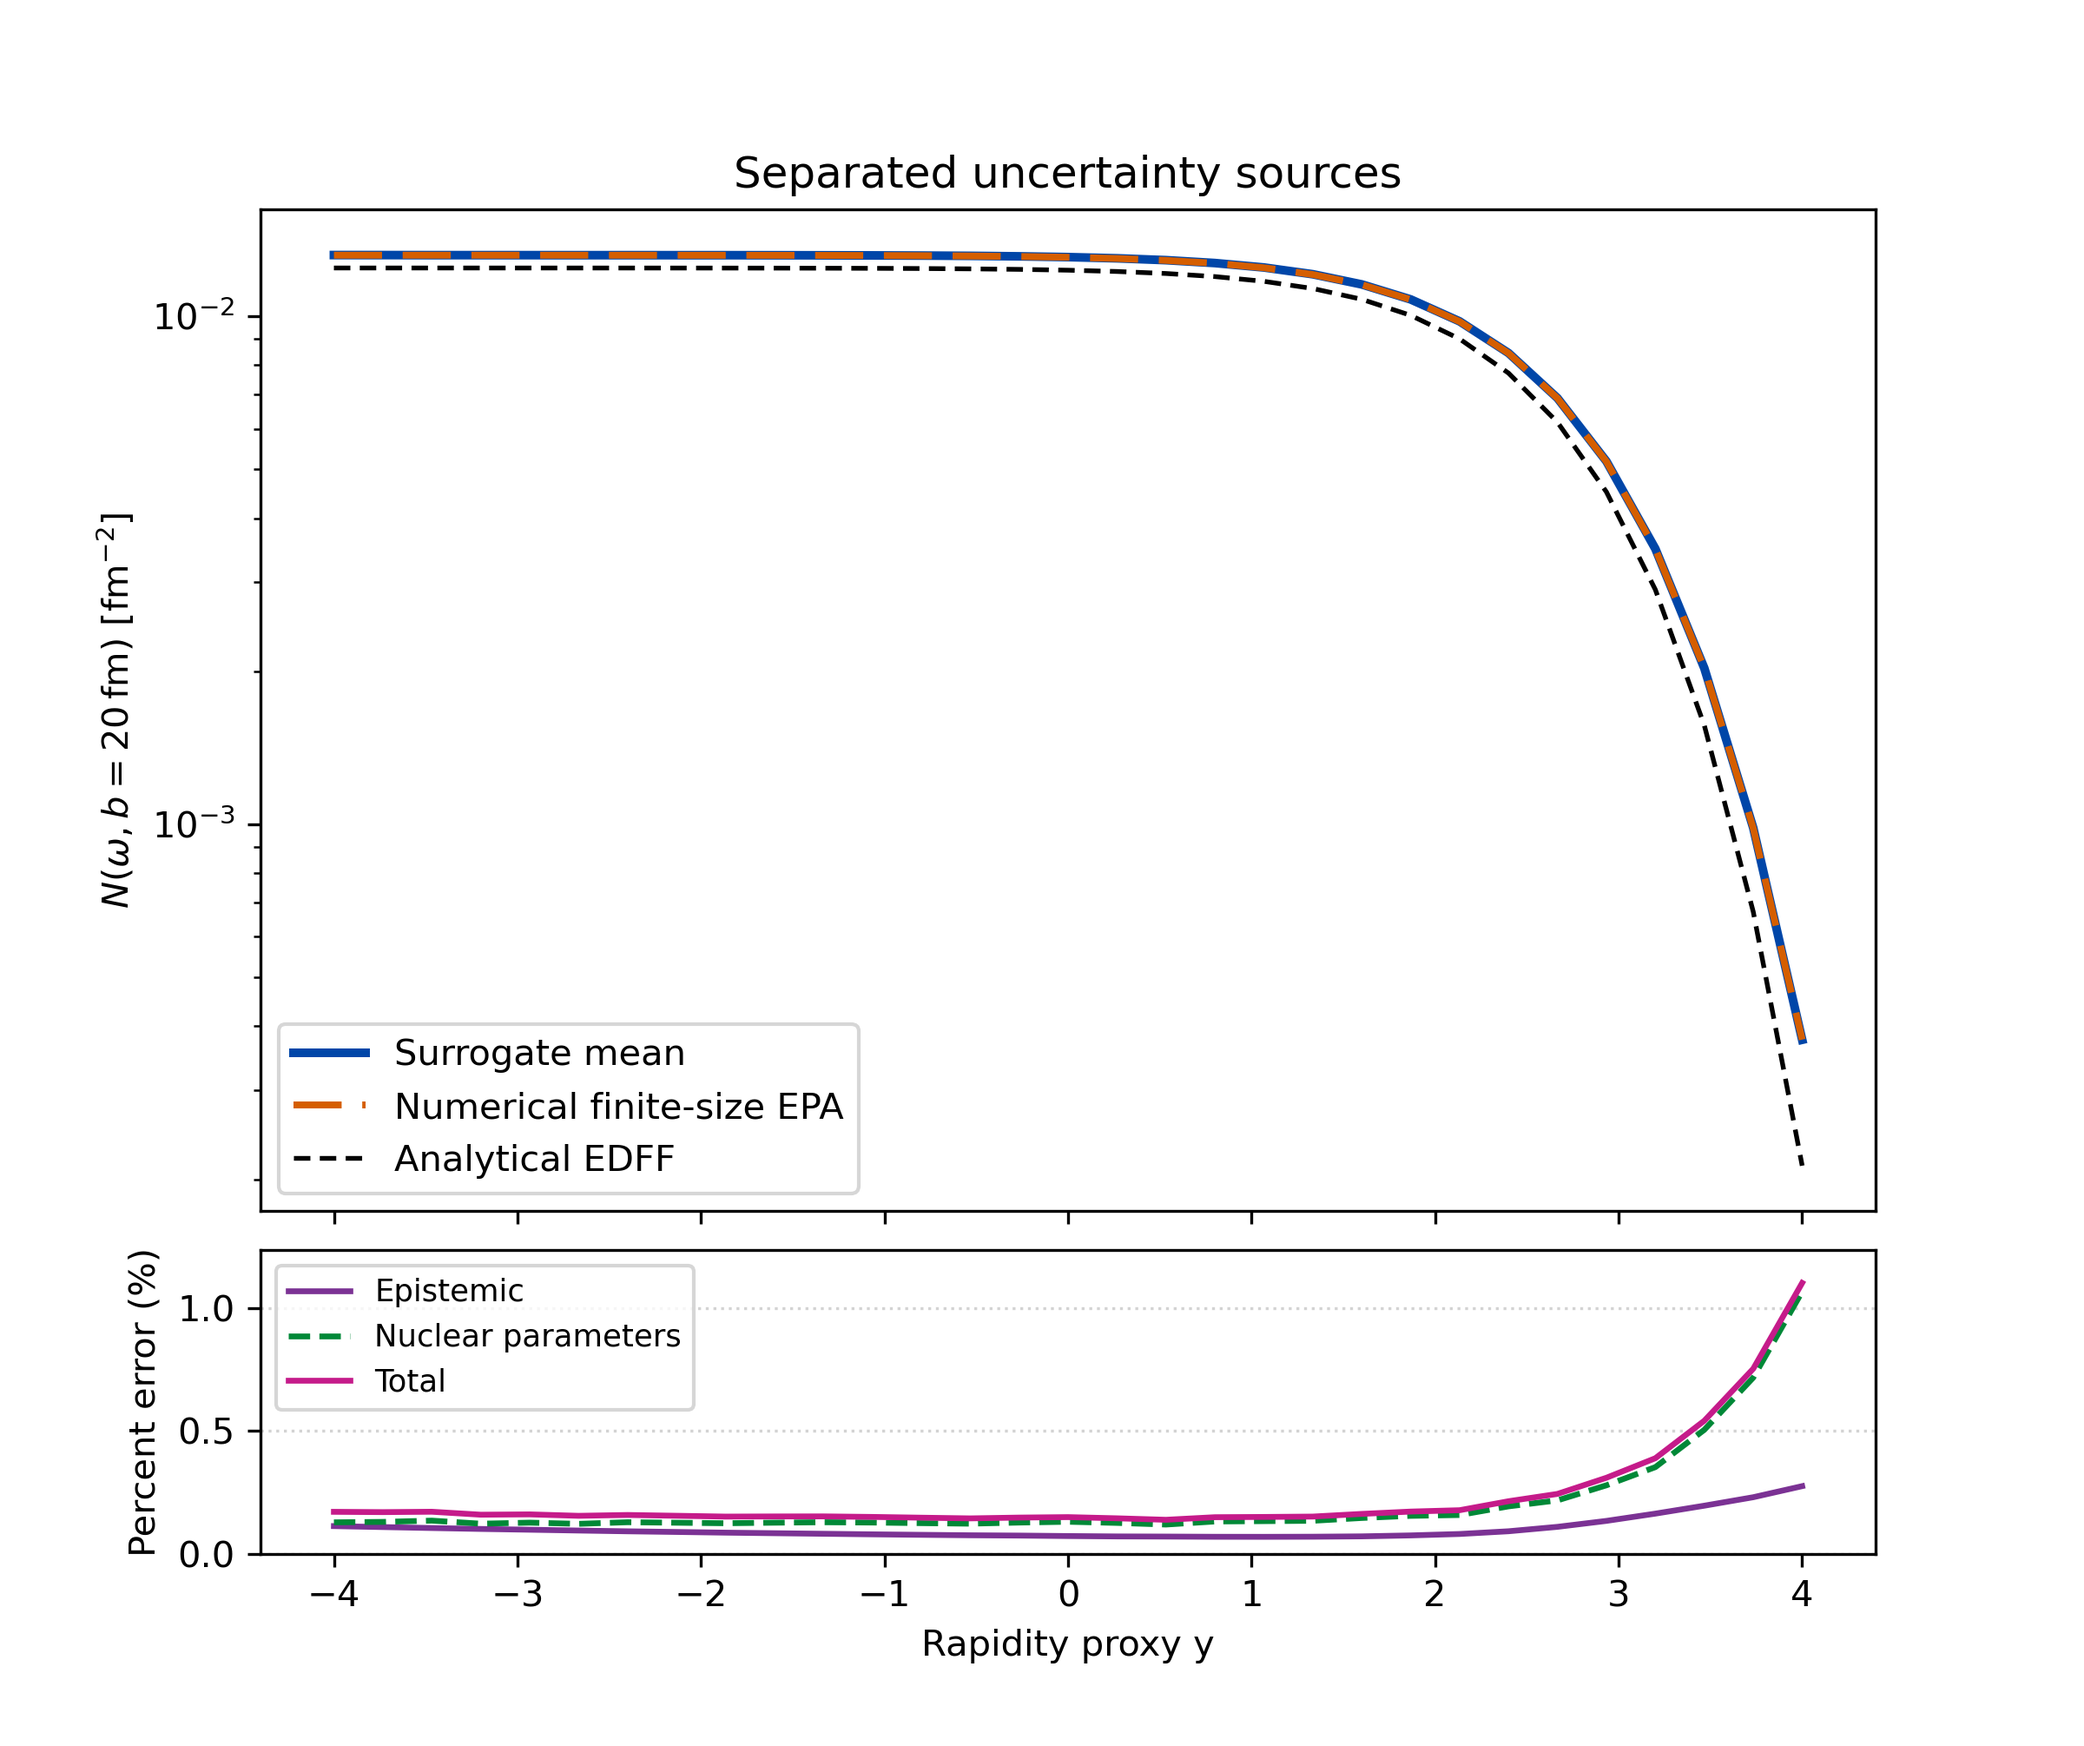
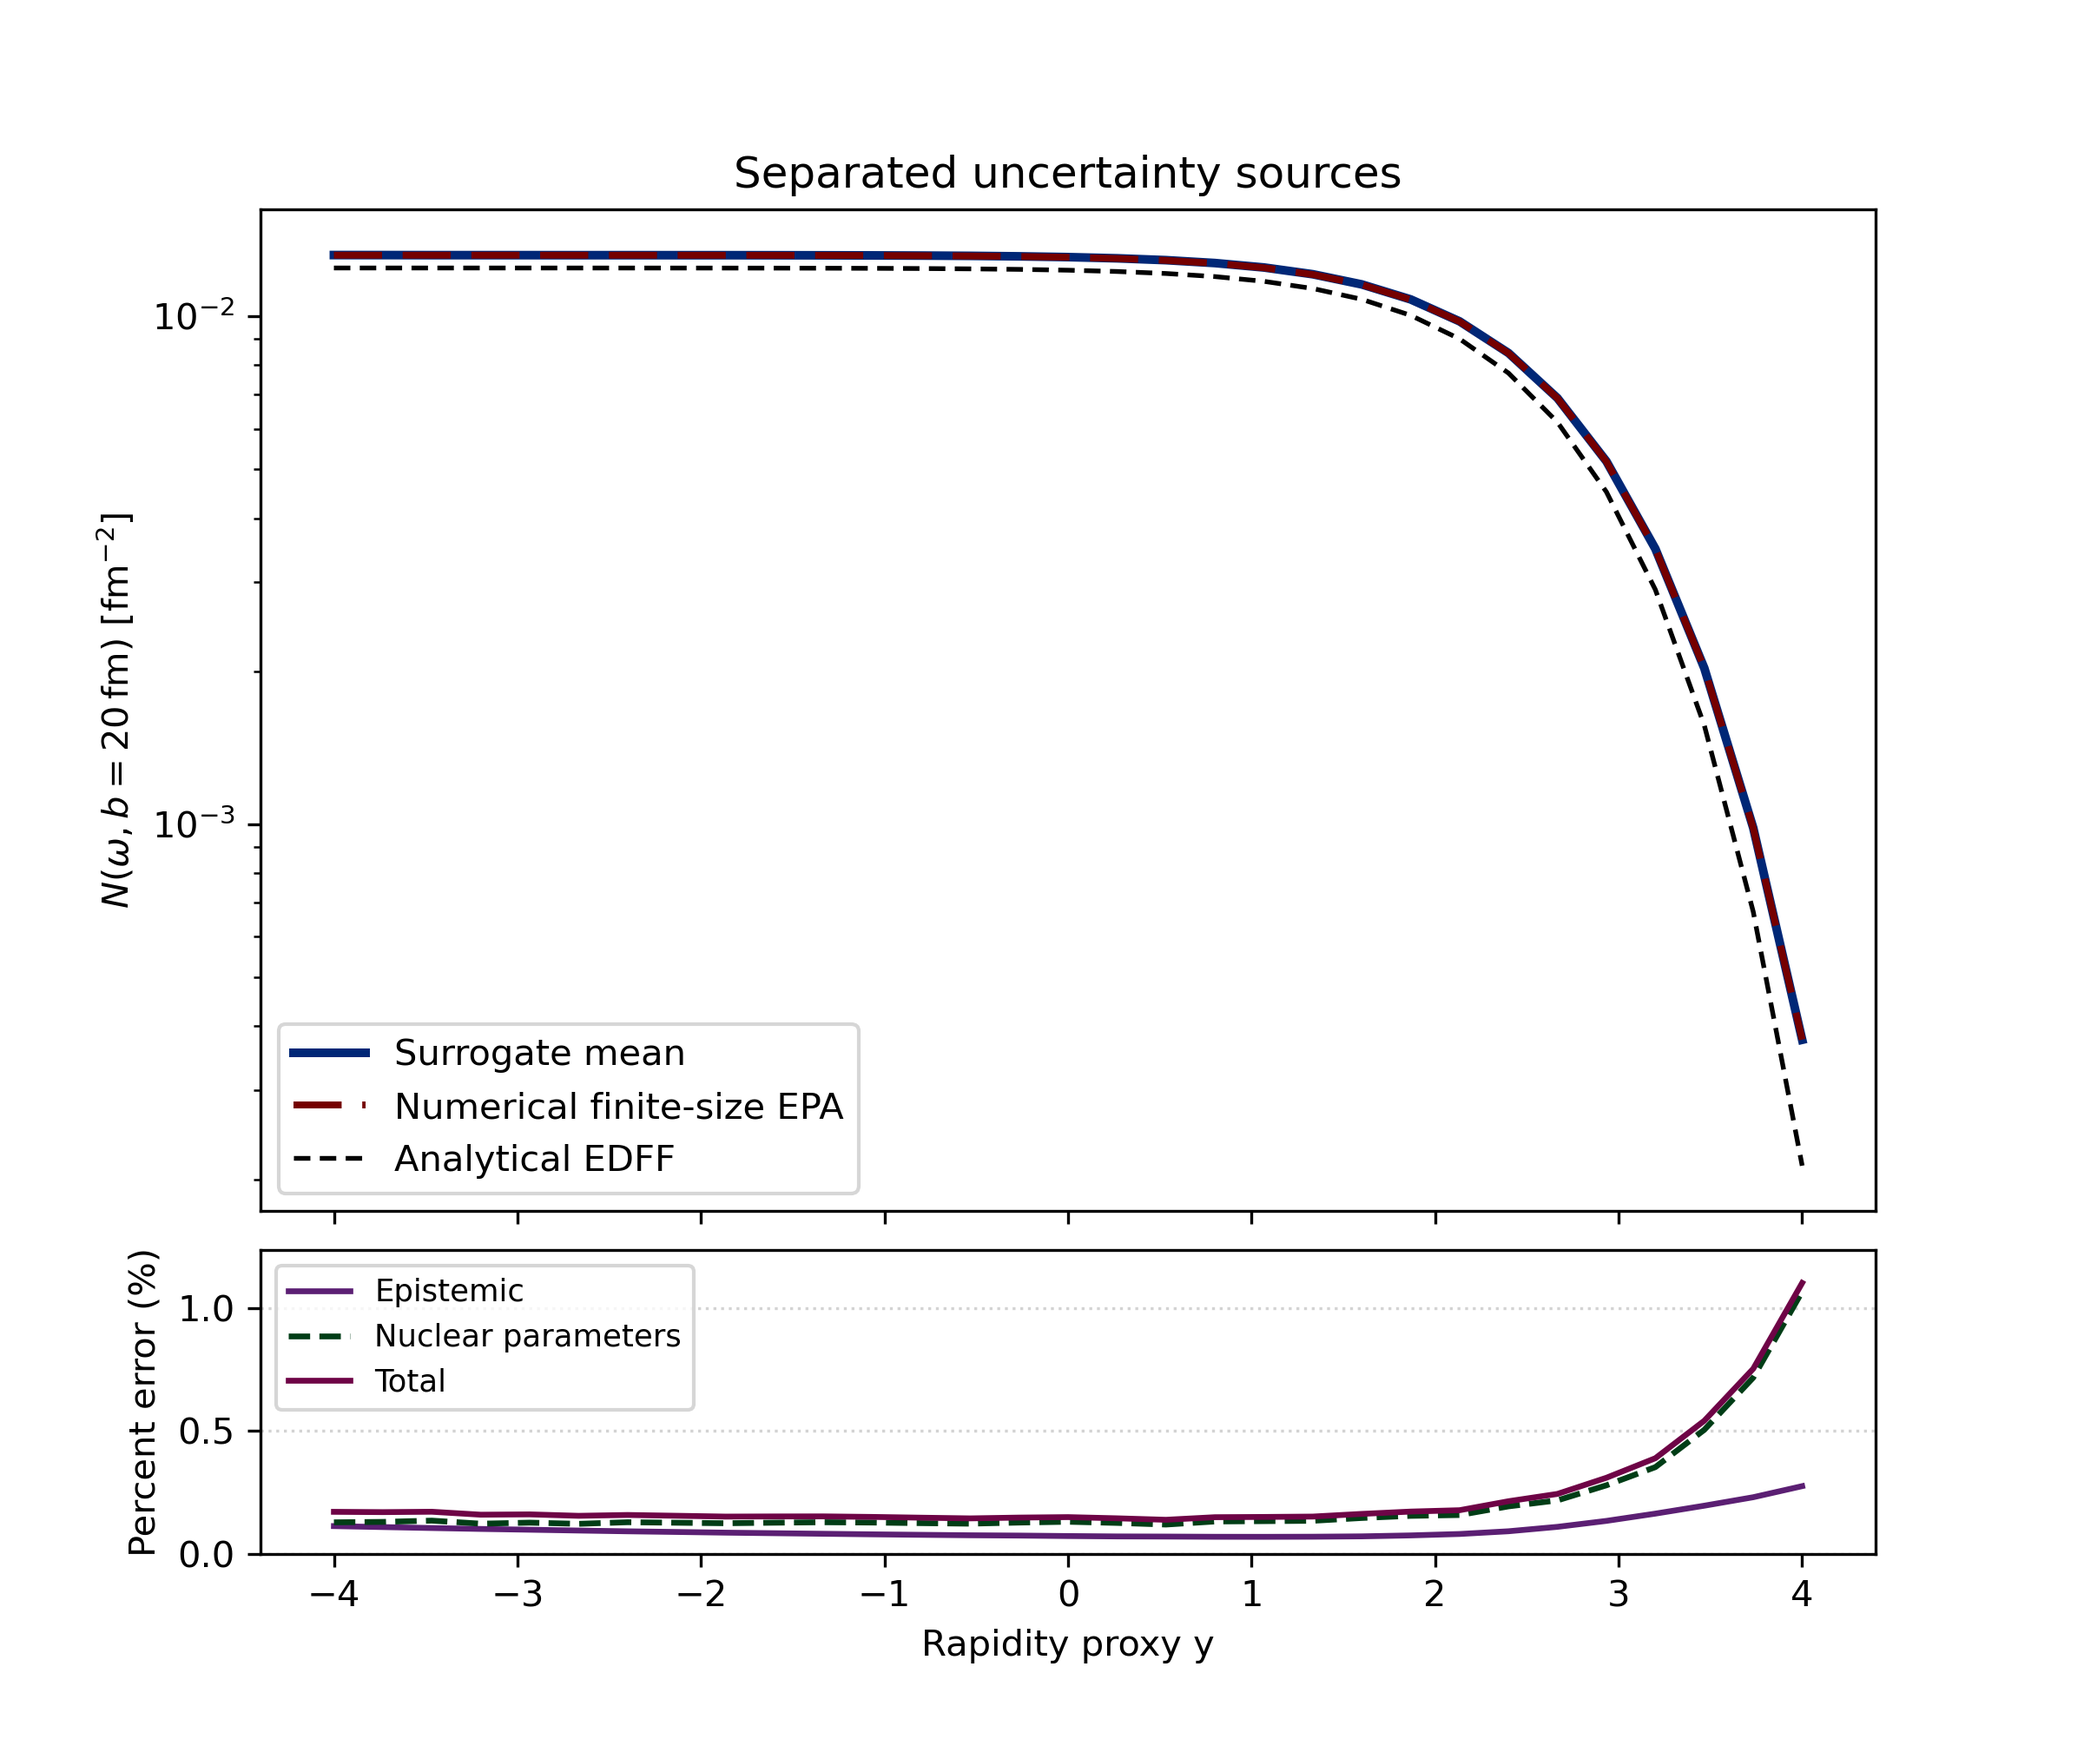
Figure 12 high-contrast colors (all lines above 10:1 on white)

diff --git a/figures/make_fig12_cell37_percent_error.py b/figures/make_fig12_cell37_percent_error.py
@@ -72,7 +72,7 @@ def main() -> None:
         gridspec_kw={"height_ratios": [3.3, 1.0], "hspace": 0.06},
     )
 
-    line_color = "#0046A8"
+    line_color = "#002776"
     epistemic_color = "#6baed6"
     total_color = "#fdae61"
 
@@ -89,7 +89,7 @@ def main() -> None:
         axis.plot(
             ref["y"],
             ref["finite_epa_flux"],
-            color="#D55E00",
+            color="#750000",
             linewidth=1.9,
             linestyle=(0, (7, 3)),
             label="Numerical finite-size EPA",
@@ -110,16 +110,16 @@ def main() -> None:
     axis.set_title("Separated uncertainty sources")
     axis.legend(loc="lower left")
 
-    error_axis.plot(x, percent_epistemic, color="#7B3294", linewidth=1.6, label="Epistemic")
+    error_axis.plot(x, percent_epistemic, color="#5B1F73", linewidth=1.6, label="Epistemic")
     error_axis.plot(
         x,
         percent_nuclear,
-        color="#008837",
+        color="#003D16",
         linestyle="--",
         linewidth=1.6,
         label="Nuclear parameters",
     )
-    error_axis.plot(x, percent_total, color="#C51B8A", linewidth=1.6, label="Total")
+    error_axis.plot(x, percent_total, color="#6E0446", linewidth=1.6, label="Total")
     error_axis.set_xlabel("Rapidity proxy y")
     error_axis.set_ylabel("Percent error (%)")
     error_axis.set_ylim(0, max(1.2, float(np.max(percent_total)) * 1.12))
